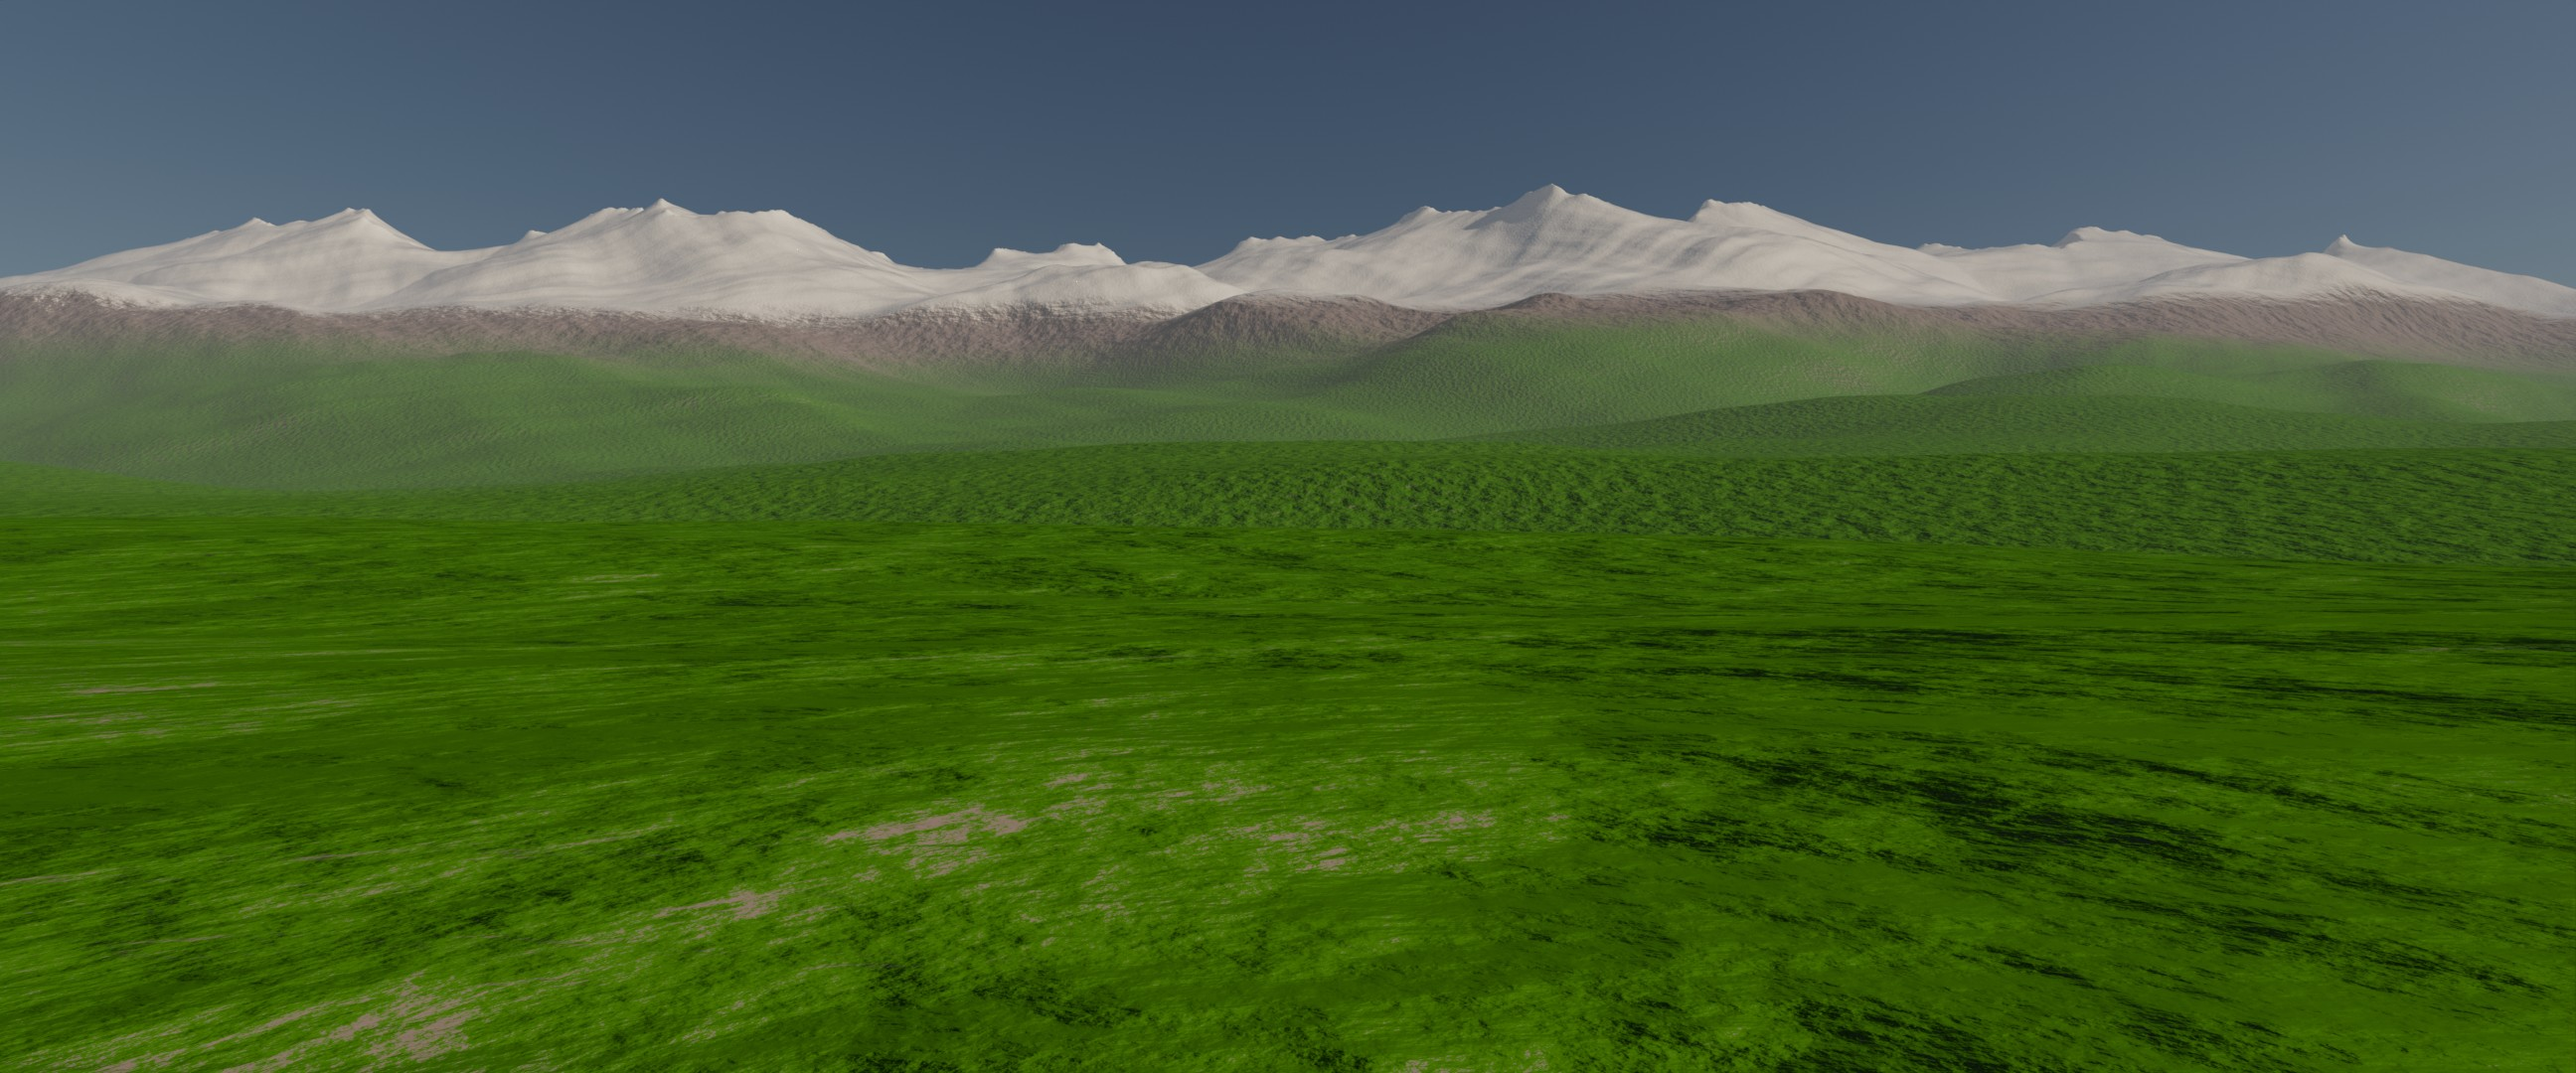
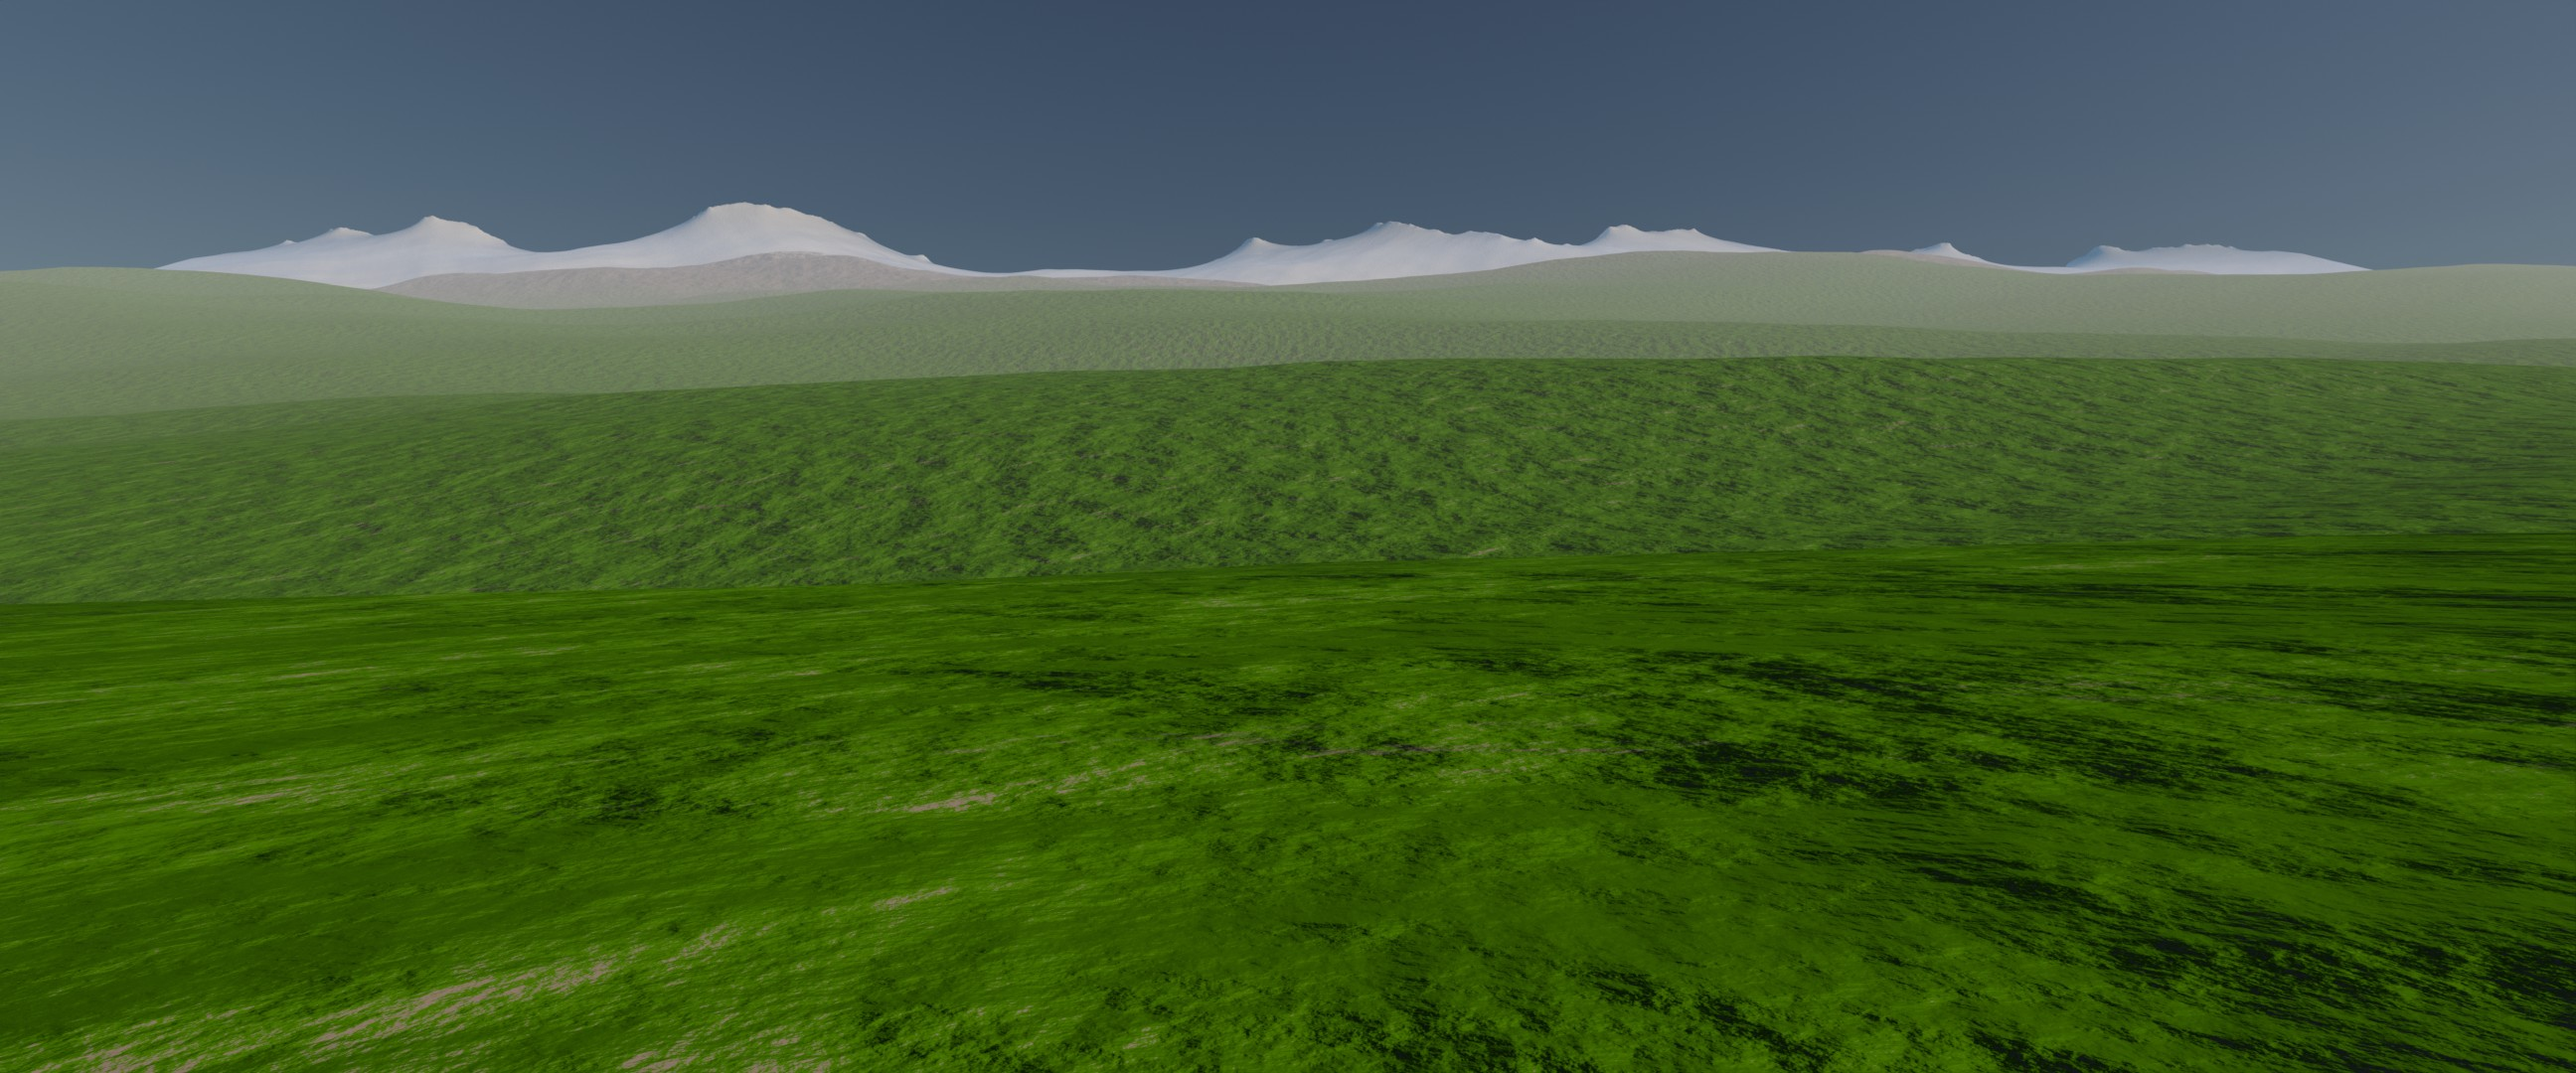
Use exponential decay on bump field

Changed region(s): [[0.0, 0.1528, 1.0, 1.0], [0.0, 0.6417, 0.0625, 0.7028], [0.1875, 0.5806, 0.2188, 0.6111]]

diff --git a/bin/generate_bumps.cpp b/bin/generate_bumps.cpp
@@ -164,7 +164,7 @@ int main()
 					}
 				},
 				.wave_properties{
-					.amplitude = 2048.0f,
+					.amplitude = 1024.0f,
 					.wavelength = 8192.0f,
 					.phase = 0.0f
 				}
@@ -385,9 +385,9 @@ int main()
 			for(uint32_t x = 0; x != output.width(); ++x)
 			{
 				auto const z_valley = base_elevation(x, y);
-				auto const z_hills = 0.0f*bump_field(x, y);
+				auto const z_hills = bump_field(x, y)*std::exp2((z_valley - heightmap_params.main_ridge.base_elevation)/4096.0f);
 				auto const z_uplift = uplift_zone.front()(x, y);
-				output(x, y) = z_valley*(1.0f + z_hills/heightmap_params.main_ridge.base_elevation) + z_uplift;
+				output(x, y) = z_valley + z_hills + z_uplift;
 			}
 		}
 		store(output, "output.exr");
